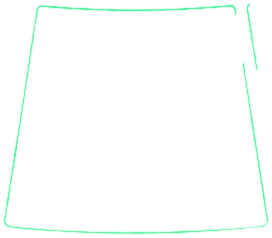
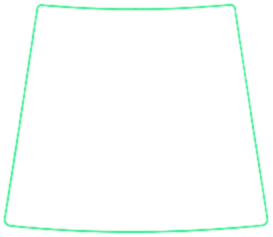
Баккара: подсветка по всему периметру рамок
Контуры зон теперь берутся из макета целиком: внутренность каждой рамки
находится заливкой от её нарисованной линии, линия вырезается кольцом
вокруг внутренности независимо от оттенка. Раньше по цветовому порогу
терялись тусклые стороны (левая у PLAYER, правая у BANKER). Области
клика пересчитаны по тем же контурам.

Claude-Session: https://claude.ai/code/session_01Y6FYFVuyoamDcK2kFgvJ1i

diff --git a/public/app.js b/public/app.js
@@ -1379,20 +1379,19 @@ const BC_SLOTS = { player: [74.6, 125.6], banker: [217.6, 268.6] };
 const BC_CARD_Y = 140.5;
 const BC_SHOE = { x: 364.7, y: 155 };
 
-// Контуры зон в координатах макета (941×1672): сняты по цветным линиям
-// границ (кривые граней + пересечения углов), сжаты на 3 px внутрь, чтобы
-// подсветка никогда не выходила за нарисованную рамку.
+// Области клика зон в координатах макета (941×1672): выпуклая оболочка
+// внутренности каждой рамки, найденной по её нарисованной линии.
 const BC_ZONE_SHAPES = {
-  player: { colour: '#4a78ff', points: [[99.0, 715.1], [141.9, 733.2], [184.6, 748.7], [226.9, 761.2], [269.3, 770.7], [312.0, 777.6], [355.1, 781.7], [343.9, 851.4], [333.3, 920.7], [323.2, 990.5], [275.6, 989.1], [228.4, 988.1], [181.5, 987.5], [134.2, 987.3], [86.6, 987.5], [38.9, 987.7], [59.7, 896.6], [79.7, 806.3]] },
-  banker: { colour: '#ff3b5c', points: [[599.3, 783.7], [641.2, 775.6], [682.7, 766.8], [723.9, 756.9], [765.0, 745.6], [806.5, 733.2], [848.2, 720.0], [865.8, 782.4], [883.8, 844.5], [902.2, 906.6], [853.6, 932.8], [805.4, 954.1], [757.7, 970.9], [709.8, 983.5], [661.6, 991.4], [613.1, 994.6], [609.0, 923.9], [604.5, 853.9]] },
-  tie: { colour: '#2ad37f', points: [[374.0, 786.5], [408.2, 786.9], [442.1, 787.2], [475.9, 787.3], [509.6, 787.1], [543.7, 786.8], [577.8, 786.5], [583.2, 859.2], [589.3, 931.3], [596.0, 1004.1], [553.1, 1004.0], [510.5, 1003.9], [468.1, 1003.9], [425.8, 1004.4], [383.1, 1005.1], [340.0, 1005.8], [352.1, 932.3], [363.4, 859.7]] },
-  playerPair: { colour: '#c47cff', points: [[124.9, 986.4], [166.1, 994.3], [207.0, 1002.3], [246.7, 1010.3], [286.2, 1016.9], [327.1, 1023.4], [368.6, 1030.3], [370.9, 1064.3], [373.3, 1098.4], [376.0, 1132.6], [330.4, 1123.3], [285.1, 1113.7], [241.3, 1104.1], [197.6, 1096.2], [152.2, 1088.1], [106.6, 1079.6], [112.8, 1048.6], [118.9, 1017.5]] },
-  bankerPair: { colour: '#c47cff', points: [[572.3, 1030.0], [613.6, 1023.0], [654.5, 1016.6], [694.0, 1010.0], [733.6, 1002.1], [774.5, 994.0], [815.7, 986.1], [821.9, 1017.8], [828.2, 1049.3], [834.7, 1080.9], [789.2, 1088.6], [744.0, 1096.0], [700.4, 1103.2], [656.8, 1112.0], [611.7, 1120.9], [566.2, 1129.4], [568.4, 1096.2], [570.4, 1063.1]] },
+  player: { colour: '#4a78ff', points: [[355.0, 777.0], [328.0, 995.0], [291.0, 998.0], [245.0, 990.0], [207.0, 982.0], [174.0, 974.0], [146.0, 966.0], [81.0, 943.0], [53.0, 931.0], [39.0, 924.0], [9.0, 908.0], [78.0, 760.0], [102.0, 718.0], [106.0, 714.0], [111.0, 714.0]] },
+  banker: { colour: '#ff3b5c', points: [[620.0, 1001.0], [585.0, 820.0], [581.0, 795.0], [580.0, 782.0], [833.0, 713.0], [859.0, 747.0], [879.0, 782.0], [893.0, 807.0], [922.0, 859.0], [939.0, 890.0], [934.0, 907.0], [896.0, 927.0], [869.0, 939.0], [833.0, 953.0], [790.0, 967.0], [761.0, 975.0], [728.0, 983.0], [677.0, 993.0], [646.0, 998.0]] },
+  tie: { colour: '#2ad37f', points: [[374.0, 780.0], [565.0, 779.0], [571.0, 784.0], [584.0, 863.0], [600.0, 966.0], [604.0, 993.0], [599.0, 1003.0], [551.0, 1008.0], [531.0, 1009.0], [423.0, 1010.0], [400.0, 1009.0], [371.0, 1007.0], [338.0, 999.0], [367.0, 801.0]] },
+  playerPair: { colour: '#c47cff', points: [[365.0, 1128.0], [334.0, 1126.0], [310.0, 1123.0], [258.0, 1115.0], [227.0, 1109.0], [204.0, 1104.0], [183.0, 1099.0], [151.0, 1090.0], [111.0, 1077.0], [106.0, 1075.0], [100.0, 1056.0], [125.0, 995.0], [129.0, 986.0], [374.0, 1023.0], [381.0, 1029.0], [380.0, 1059.0], [374.0, 1117.0]] },
+  bankerPair: { colour: '#c47cff', points: [[559.0, 1041.0], [801.0, 980.0], [805.0, 980.0], [839.0, 1051.0], [837.0, 1074.0], [805.0, 1085.0], [788.0, 1090.0], [763.0, 1097.0], [730.0, 1105.0], [707.0, 1110.0], [686.0, 1114.0], [662.0, 1118.0], [635.0, 1122.0], [604.0, 1126.0], [584.0, 1128.0], [567.0, 1115.0], [564.0, 1088.0], [561.0, 1060.0]] },
 };
 
 // Слой подсветки — сама нарисованная линия границы, вырезанная из макета
 // (img/bc-line-*.png): совпадает с контуром и скруглениями по построению.
-const BC_LINE_BOXES = {"player": {"x": 32.33, "y": 254.89, "w": 119.36, "h": 120.19}, "banker": {"x": 242.87, "y": 254.89, "w": 122.68, "h": 122.26}, "tie": {"x": 138.84, "y": 281.83, "w": 112.73, "h": 98.64}, "playerPair": {"x": 39.37, "y": 365.55, "w": 119.78, "h": 63.83}, "bankerPair": {"x": 231.26, "y": 365.13, "w": 119.36, "h": 64.24}};
+const BC_LINE_BOXES = {"player": {"x": 0.0, "y": 254.89, "w": 151.28, "h": 121.85}, "tie": {"x": 138.84, "y": 282.24, "w": 113.15, "h": 98.23}, "banker": {"x": 239.14, "y": 254.89, "w": 150.86, "h": 121.85}, "playerPair": {"x": 39.37, "y": 365.55, "w": 120.61, "h": 63.83}, "bankerPair": {"x": 230.44, "y": 365.13, "w": 120.61, "h": 63.83}};
 
 function bcZones() {
   return Object.entries(BC_ZONE_SHAPES).map(([key, shape]) => {

diff --git a/public/index.html b/public/index.html
@@ -716,6 +716,6 @@
     <div id="toast" class="toast hidden"></div>
   </div>
 
-  <script src="/app.js?v=78"></script>
+  <script src="/app.js?v=79"></script>
 </body>
 </html>
